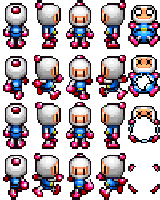
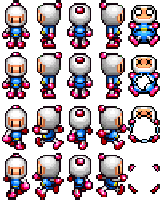
メスタイプ

diff --git a/Project3/Scene/GameScene.cpp b/Project3/Scene/GameScene.cpp
@@ -25,7 +25,7 @@ void GameScene::Draw(void)
 {
 	for (int a = 0; a < playernum; a++)
 	{
-		DrawGraph(imagepos[a].x, imagepos[a].y, imagechar[a][((animCnt / 8) % 4 * 5) + static_cast<int>(_dir[a])], true);
+		DrawGraph(imagepos[a].x, imagepos[a].y, imagechar[a][(((animCnt / 10) % 2 + 2) * 5) + static_cast<int>(_dir[a])], true);
 	}
 
 	_map.DrawMap(Layer::Bg);
@@ -153,8 +153,11 @@ void GameScene::HostUpdata(void)
 		if (GetNetWorkDataLength(lpNetwark.GetNetHandle()) >= sizeof(data))
 		{
 			NetWorkRecv(lpNetwark.GetNetHandle(), &data, sizeof(data));
-			imagepos[1].x += data.first;
-			imagepos[1].y += data.second;
+			if ((imagepos[1].x != data.first)||(imagepos[1].y != data.second))
+			{
+				imagepos[1].x += data.first;
+				imagepos[1].y += data.second;
+			}
 		}
 	}
 	else
@@ -195,8 +198,12 @@ void GameScene::GestUpdata(void)
 		if (GetNetWorkDataLength(lpNetwark.GetNetHandle()) >= sizeof(data))
 		{
 			NetWorkRecv(lpNetwark.GetNetHandle(), &data, sizeof(data));
-			imagepos[0].x += data.first;
-			imagepos[0].y += data.second;
+			if ((imagepos[0].x != data.first) || (imagepos[0].y != data.second))
+			{
+				imagepos[0].x += data.first;
+				imagepos[0].y += data.second;
+			}
+
 		}
 	}
 	else

diff --git a/Project3/input/Pad.cpp b/Project3/input/Pad.cpp
@@ -12,9 +12,9 @@ bool Pad::Setup(int no)
 	{
 		_inputTbl = {
 			{InputID::Up,PAD_INPUT_UP},
-			{InputID::Right,PAD_INPUT_RIGHT},
 			{InputID::Down,PAD_INPUT_DOWN},
 			{InputID::Left,PAD_INPUT_LEFT},
+			{InputID::Right,PAD_INPUT_RIGHT},
 			{InputID::Btn1,PAD_INPUT_1},
 			{InputID::Btn2,PAD_INPUT_2}
 		};
@@ -23,9 +23,9 @@ bool Pad::Setup(int no)
 	{
 		_inputTbl = {
 			{InputID::Up,PAD_INPUT_UP},
-			{InputID::Right,PAD_INPUT_RIGHT},
 			{InputID::Down,PAD_INPUT_DOWN},
 			{InputID::Left,PAD_INPUT_LEFT},
+			{InputID::Right,PAD_INPUT_RIGHT},
 			{InputID::Btn1,PAD_INPUT_1},
 			{InputID::Btn2,PAD_INPUT_2}
 		};

diff --git a/Project3/Scene/GameScene.h b/Project3/Scene/GameScene.h
@@ -6,12 +6,19 @@
 
 enum class DIR
 {
-	UP,
-	RIGHT,
 	DOWN,
 	LEFT,
+	UP,
+	RIGHT,
 	DEAD,
 	MAX
+};
+
+enum class Animstate
+{
+	Idel,
+	Walk,
+	Max
 };
 
 class GameScene :

diff --git a/Project3/Scene/LoginScene.cpp b/Project3/Scene/LoginScene.cpp
@@ -175,8 +175,6 @@ void LoginScene::Init(void)
 
 void LoginScene::Updata(void)
 {
-
-
 	lpScene.ChangeScene(SCENE::GAME);
 	//for (auto data : controller->GetCntData())
 	//{

diff --git a/Project3/input/Inputid.h b/Project3/input/Inputid.h
@@ -5,8 +5,8 @@
 enum class InputID
 {
 	Up,
-	Right,
 	Down,
+	Right,
 	Left,
 	Btn1,
 	Btn2,
